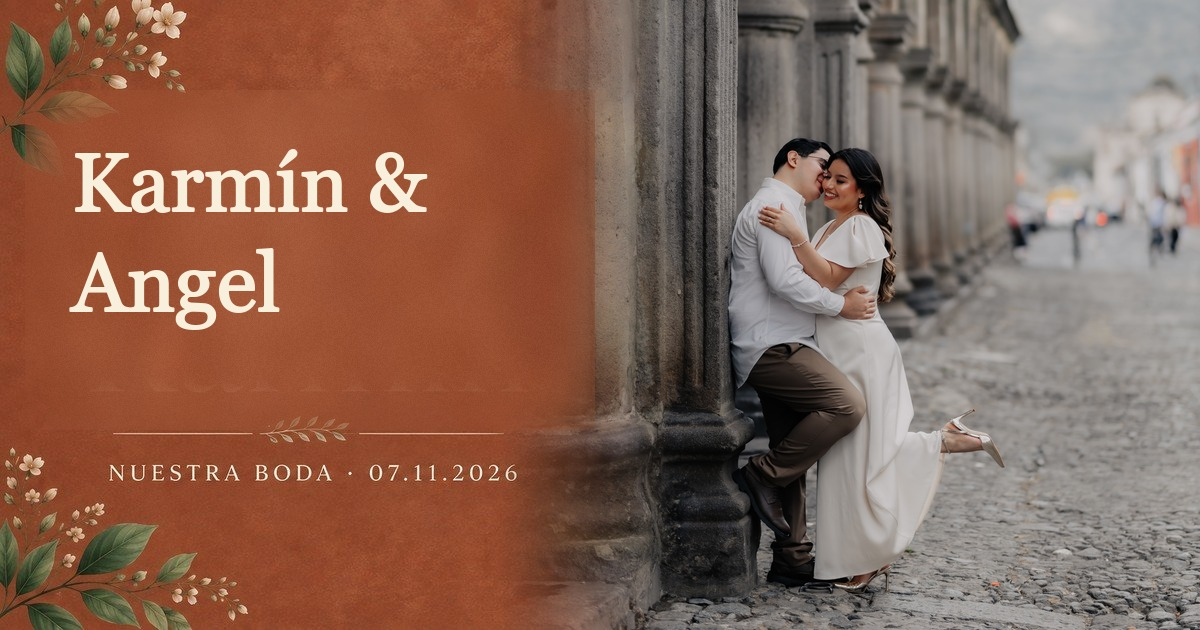
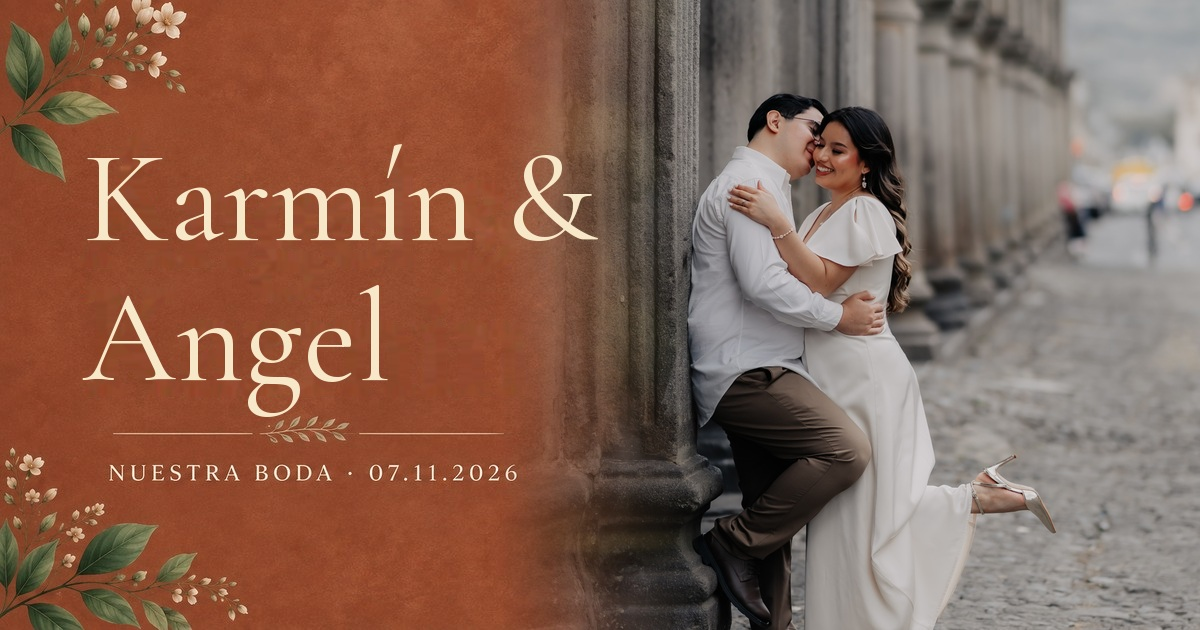
Recrea portada social con diseno original

diff --git a/weddingkarminandangel/1/index.html b/weddingkarminandangel/1/index.html
@@ -9,14 +9,14 @@
   <meta property="og:title" content="Karmín &amp; Angel | Nuestra boda" />
   <meta property="og:description" content="Nuestra boda · 7 de noviembre de 2026 · Jardín Tierra Linda." />
   <meta property="og:url" content="https://gaschsoft.com/weddingkarminandangel/1/" />
-  <meta property="og:image" content="https://gaschsoft.com/weddingkarminandangel/assets/social-preview-karmin-angel.jpg" />
+  <meta property="og:image" content="https://gaschsoft.com/weddingkarminandangel/assets/social-preview-karmin-angel-v2.jpg" />
   <meta property="og:image:width" content="1200" />
   <meta property="og:image:height" content="630" />
   <meta property="og:image:type" content="image/jpeg" />
   <meta property="og:image:alt" content="Karmín y Angel · Nuestra boda · 07.11.2026" />
   <meta property="og:locale" content="es_GT" />
   <meta name="twitter:card" content="summary_large_image" />
-  <meta name="twitter:image" content="https://gaschsoft.com/weddingkarminandangel/assets/social-preview-karmin-angel.jpg" />
+  <meta name="twitter:image" content="https://gaschsoft.com/weddingkarminandangel/assets/social-preview-karmin-angel-v2.jpg" />
   <link rel="canonical" href="https://gaschsoft.com/weddingkarminandangel/1/" />
   <title>Karmín &amp; Angel | Nuestra boda</title>
   <script>

diff --git a/weddingkarminandangel/2/index.html b/weddingkarminandangel/2/index.html
@@ -9,14 +9,14 @@
   <meta property="og:title" content="Karmín &amp; Angel | Nuestra boda" />
   <meta property="og:description" content="Nuestra boda · 7 de noviembre de 2026 · Jardín Tierra Linda." />
   <meta property="og:url" content="https://gaschsoft.com/weddingkarminandangel/2/" />
-  <meta property="og:image" content="https://gaschsoft.com/weddingkarminandangel/assets/social-preview-karmin-angel.jpg" />
+  <meta property="og:image" content="https://gaschsoft.com/weddingkarminandangel/assets/social-preview-karmin-angel-v2.jpg" />
   <meta property="og:image:width" content="1200" />
   <meta property="og:image:height" content="630" />
   <meta property="og:image:type" content="image/jpeg" />
   <meta property="og:image:alt" content="Karmín y Angel · Nuestra boda · 07.11.2026" />
   <meta property="og:locale" content="es_GT" />
   <meta name="twitter:card" content="summary_large_image" />
-  <meta name="twitter:image" content="https://gaschsoft.com/weddingkarminandangel/assets/social-preview-karmin-angel.jpg" />
+  <meta name="twitter:image" content="https://gaschsoft.com/weddingkarminandangel/assets/social-preview-karmin-angel-v2.jpg" />
   <link rel="canonical" href="https://gaschsoft.com/weddingkarminandangel/2/" />
   <title>Karmín &amp; Angel | Nuestra boda</title>
   <script>

diff --git a/weddingkarminandangel/3/index.html b/weddingkarminandangel/3/index.html
@@ -9,14 +9,14 @@
   <meta property="og:title" content="Karmín &amp; Angel | Nuestra boda" />
   <meta property="og:description" content="Nuestra boda · 7 de noviembre de 2026 · Jardín Tierra Linda." />
   <meta property="og:url" content="https://gaschsoft.com/weddingkarminandangel/3/" />
-  <meta property="og:image" content="https://gaschsoft.com/weddingkarminandangel/assets/social-preview-karmin-angel.jpg" />
+  <meta property="og:image" content="https://gaschsoft.com/weddingkarminandangel/assets/social-preview-karmin-angel-v2.jpg" />
   <meta property="og:image:width" content="1200" />
   <meta property="og:image:height" content="630" />
   <meta property="og:image:type" content="image/jpeg" />
   <meta property="og:image:alt" content="Karmín y Angel · Nuestra boda · 07.11.2026" />
   <meta property="og:locale" content="es_GT" />
   <meta name="twitter:card" content="summary_large_image" />
-  <meta name="twitter:image" content="https://gaschsoft.com/weddingkarminandangel/assets/social-preview-karmin-angel.jpg" />
+  <meta name="twitter:image" content="https://gaschsoft.com/weddingkarminandangel/assets/social-preview-karmin-angel-v2.jpg" />
   <link rel="canonical" href="https://gaschsoft.com/weddingkarminandangel/3/" />
   <title>Karmín &amp; Angel | Nuestra boda</title>
   <script>

diff --git a/weddingkarminandangel/4/index.html b/weddingkarminandangel/4/index.html
@@ -9,14 +9,14 @@
   <meta property="og:title" content="Karmín &amp; Angel | Nuestra boda" />
   <meta property="og:description" content="Nuestra boda · 7 de noviembre de 2026 · Jardín Tierra Linda." />
   <meta property="og:url" content="https://gaschsoft.com/weddingkarminandangel/4/" />
-  <meta property="og:image" content="https://gaschsoft.com/weddingkarminandangel/assets/social-preview-karmin-angel.jpg" />
+  <meta property="og:image" content="https://gaschsoft.com/weddingkarminandangel/assets/social-preview-karmin-angel-v2.jpg" />
   <meta property="og:image:width" content="1200" />
   <meta property="og:image:height" content="630" />
   <meta property="og:image:type" content="image/jpeg" />
   <meta property="og:image:alt" content="Karmín y Angel · Nuestra boda · 07.11.2026" />
   <meta property="og:locale" content="es_GT" />
   <meta name="twitter:card" content="summary_large_image" />
-  <meta name="twitter:image" content="https://gaschsoft.com/weddingkarminandangel/assets/social-preview-karmin-angel.jpg" />
+  <meta name="twitter:image" content="https://gaschsoft.com/weddingkarminandangel/assets/social-preview-karmin-angel-v2.jpg" />
   <link rel="canonical" href="https://gaschsoft.com/weddingkarminandangel/4/" />
   <title>Karmín &amp; Angel | Nuestra boda</title>
   <script>

diff --git a/weddingkarminandangel/5/index.html b/weddingkarminandangel/5/index.html
@@ -9,14 +9,14 @@
   <meta property="og:title" content="Karmín &amp; Angel | Nuestra boda" />
   <meta property="og:description" content="Nuestra boda · 7 de noviembre de 2026 · Jardín Tierra Linda." />
   <meta property="og:url" content="https://gaschsoft.com/weddingkarminandangel/5/" />
-  <meta property="og:image" content="https://gaschsoft.com/weddingkarminandangel/assets/social-preview-karmin-angel.jpg" />
+  <meta property="og:image" content="https://gaschsoft.com/weddingkarminandangel/assets/social-preview-karmin-angel-v2.jpg" />
   <meta property="og:image:width" content="1200" />
   <meta property="og:image:height" content="630" />
   <meta property="og:image:type" content="image/jpeg" />
   <meta property="og:image:alt" content="Karmín y Angel · Nuestra boda · 07.11.2026" />
   <meta property="og:locale" content="es_GT" />
   <meta name="twitter:card" content="summary_large_image" />
-  <meta name="twitter:image" content="https://gaschsoft.com/weddingkarminandangel/assets/social-preview-karmin-angel.jpg" />
+  <meta name="twitter:image" content="https://gaschsoft.com/weddingkarminandangel/assets/social-preview-karmin-angel-v2.jpg" />
   <link rel="canonical" href="https://gaschsoft.com/weddingkarminandangel/5/" />
   <title>Karmín &amp; Angel | Nuestra boda</title>
   <script>

diff --git a/weddingkarminandangel/index.html b/weddingkarminandangel/index.html
@@ -9,14 +9,14 @@
   <meta property="og:title" content="Karmín &amp; Angel | Nuestra boda" />
   <meta property="og:description" content="Nuestra boda · 7 de noviembre de 2026 · Jardín Tierra Linda." />
   <meta property="og:url" content="https://gaschsoft.com/weddingkarminandangel/" />
-  <meta property="og:image" content="https://gaschsoft.com/weddingkarminandangel/assets/social-preview-karmin-angel.jpg" />
+  <meta property="og:image" content="https://gaschsoft.com/weddingkarminandangel/assets/social-preview-karmin-angel-v2.jpg" />
   <meta property="og:image:width" content="1200" />
   <meta property="og:image:height" content="630" />
   <meta property="og:image:type" content="image/jpeg" />
   <meta property="og:image:alt" content="Karmín y Angel · Nuestra boda · 07.11.2026" />
   <meta property="og:locale" content="es_GT" />
   <meta name="twitter:card" content="summary_large_image" />
-  <meta name="twitter:image" content="https://gaschsoft.com/weddingkarminandangel/assets/social-preview-karmin-angel.jpg" />
+  <meta name="twitter:image" content="https://gaschsoft.com/weddingkarminandangel/assets/social-preview-karmin-angel-v2.jpg" />
   <link rel="canonical" href="https://gaschsoft.com/weddingkarminandangel/" />
   <title>Karmín &amp; Angel | Nuestra boda</title>
   <script>

diff --git a/weddingangelandkarmin/1/index.html b/weddingangelandkarmin/1/index.html
@@ -7,7 +7,7 @@
 <meta property="og:title" content="Karmín &amp; Angel | Nuestra boda" />
 <meta property="og:description" content="Nuestra boda · 7 de noviembre de 2026 · Jardín Tierra Linda." />
 <meta property="og:url" content="https://gaschsoft.com/weddingkarminandangel/1/" />
-<meta property="og:image" content="https://gaschsoft.com/weddingkarminandangel/assets/social-preview-karmin-angel.jpg" />
+<meta property="og:image" content="https://gaschsoft.com/weddingkarminandangel/assets/social-preview-karmin-angel-v2.jpg" />
 <meta property="og:image:width" content="1200" />
 <meta property="og:image:height" content="630" />
 <meta name="twitter:card" content="summary_large_image" />

diff --git a/weddingangelandkarmin/2/index.html b/weddingangelandkarmin/2/index.html
@@ -7,7 +7,7 @@
 <meta property="og:title" content="Karmín &amp; Angel | Nuestra boda" />
 <meta property="og:description" content="Nuestra boda · 7 de noviembre de 2026 · Jardín Tierra Linda." />
 <meta property="og:url" content="https://gaschsoft.com/weddingkarminandangel/2/" />
-<meta property="og:image" content="https://gaschsoft.com/weddingkarminandangel/assets/social-preview-karmin-angel.jpg" />
+<meta property="og:image" content="https://gaschsoft.com/weddingkarminandangel/assets/social-preview-karmin-angel-v2.jpg" />
 <meta property="og:image:width" content="1200" />
 <meta property="og:image:height" content="630" />
 <meta name="twitter:card" content="summary_large_image" />

diff --git a/weddingangelandkarmin/3/index.html b/weddingangelandkarmin/3/index.html
@@ -7,7 +7,7 @@
 <meta property="og:title" content="Karmín &amp; Angel | Nuestra boda" />
 <meta property="og:description" content="Nuestra boda · 7 de noviembre de 2026 · Jardín Tierra Linda." />
 <meta property="og:url" content="https://gaschsoft.com/weddingkarminandangel/3/" />
-<meta property="og:image" content="https://gaschsoft.com/weddingkarminandangel/assets/social-preview-karmin-angel.jpg" />
+<meta property="og:image" content="https://gaschsoft.com/weddingkarminandangel/assets/social-preview-karmin-angel-v2.jpg" />
 <meta property="og:image:width" content="1200" />
 <meta property="og:image:height" content="630" />
 <meta name="twitter:card" content="summary_large_image" />

diff --git a/weddingangelandkarmin/4/index.html b/weddingangelandkarmin/4/index.html
@@ -7,7 +7,7 @@
 <meta property="og:title" content="Karmín &amp; Angel | Nuestra boda" />
 <meta property="og:description" content="Nuestra boda · 7 de noviembre de 2026 · Jardín Tierra Linda." />
 <meta property="og:url" content="https://gaschsoft.com/weddingkarminandangel/4/" />
-<meta property="og:image" content="https://gaschsoft.com/weddingkarminandangel/assets/social-preview-karmin-angel.jpg" />
+<meta property="og:image" content="https://gaschsoft.com/weddingkarminandangel/assets/social-preview-karmin-angel-v2.jpg" />
 <meta property="og:image:width" content="1200" />
 <meta property="og:image:height" content="630" />
 <meta name="twitter:card" content="summary_large_image" />

diff --git a/weddingangelandkarmin/5/index.html b/weddingangelandkarmin/5/index.html
@@ -7,7 +7,7 @@
 <meta property="og:title" content="Karmín &amp; Angel | Nuestra boda" />
 <meta property="og:description" content="Nuestra boda · 7 de noviembre de 2026 · Jardín Tierra Linda." />
 <meta property="og:url" content="https://gaschsoft.com/weddingkarminandangel/5/" />
-<meta property="og:image" content="https://gaschsoft.com/weddingkarminandangel/assets/social-preview-karmin-angel.jpg" />
+<meta property="og:image" content="https://gaschsoft.com/weddingkarminandangel/assets/social-preview-karmin-angel-v2.jpg" />
 <meta property="og:image:width" content="1200" />
 <meta property="og:image:height" content="630" />
 <meta name="twitter:card" content="summary_large_image" />

diff --git a/weddingangelandkarmin/index.html b/weddingangelandkarmin/index.html
@@ -7,7 +7,7 @@
 <meta property="og:title" content="Karmín &amp; Angel | Nuestra boda" />
 <meta property="og:description" content="Nuestra boda · 7 de noviembre de 2026 · Jardín Tierra Linda." />
 <meta property="og:url" content="https://gaschsoft.com/weddingkarminandangel/" />
-<meta property="og:image" content="https://gaschsoft.com/weddingkarminandangel/assets/social-preview-karmin-angel.jpg" />
+<meta property="og:image" content="https://gaschsoft.com/weddingkarminandangel/assets/social-preview-karmin-angel-v2.jpg" />
 <meta property="og:image:width" content="1200" />
 <meta property="og:image:height" content="630" />
 <meta name="twitter:card" content="summary_large_image" />
